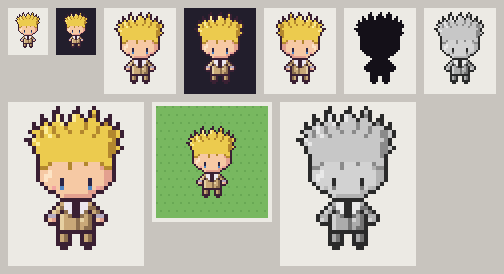
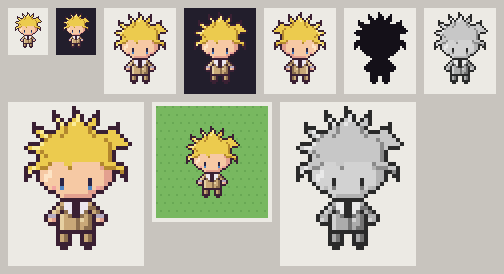
Test 13 costume : coupe courte en bataille, mèches dès les oreilles
Claude-Session: https://claude.ai/code/session_013wkJTCTwukCLdUSFsReJoa

diff --git a/methode_dessin/test13_chibi_template/costume/NOTES.md b/methode_dessin/test13_chibi_template/costume/NOTES.md
@@ -19,3 +19,10 @@ la tenue changent ; corps, peau, yeux et trait du template restent ceux du test 
 - Cheveux redessinés en dôme hérissé : des pointes de hauteurs inégales en haut, des dents sur les côtés, et une masse qui déborde du crâne de 2 px pour donner du volume.
 - Pièges vus : six traits de mèche (`px D`/`px h`) posés sur le contour. Je les ai retirés après une vérification automatique (aucun O du contour ne doit disparaître).
 - Les O du template sous les cheveux (le haut du crâne) sont recouverts exprès, comme dans la version 24×35.
+
+## Retour : 2e référence (coupe courte en bataille)
+- Ce qui a changé : la masse colle au crâne (+1 à 2 px) au lieu de former un casque. Les pointes ont chacune leur direction : vers le haut, en diagonale, à l'horizontale sur les côtés.
+- Des mèches partent dès le niveau des oreilles (rangées 14 à 18) et descendent vers l'extérieur. J'ai gardé le blond, car la demande portait sur la forme.
+- Asymétrie voulue : une pointe horizontale à gauche et une pointe en diagonale vers le haut à droite, pour éviter l'effet couronne.
+- Piège rencontré : une pointe de 1 à 2 px d'épaisseur devient entièrement du contour. Il faut au moins 3 px sur 2 rangées pour qu'il reste de la couleur.
+- J'ai aussi gardé une mèche qui tombe sur le front (x13-14) et la naissance des cheveux claire au centre.
